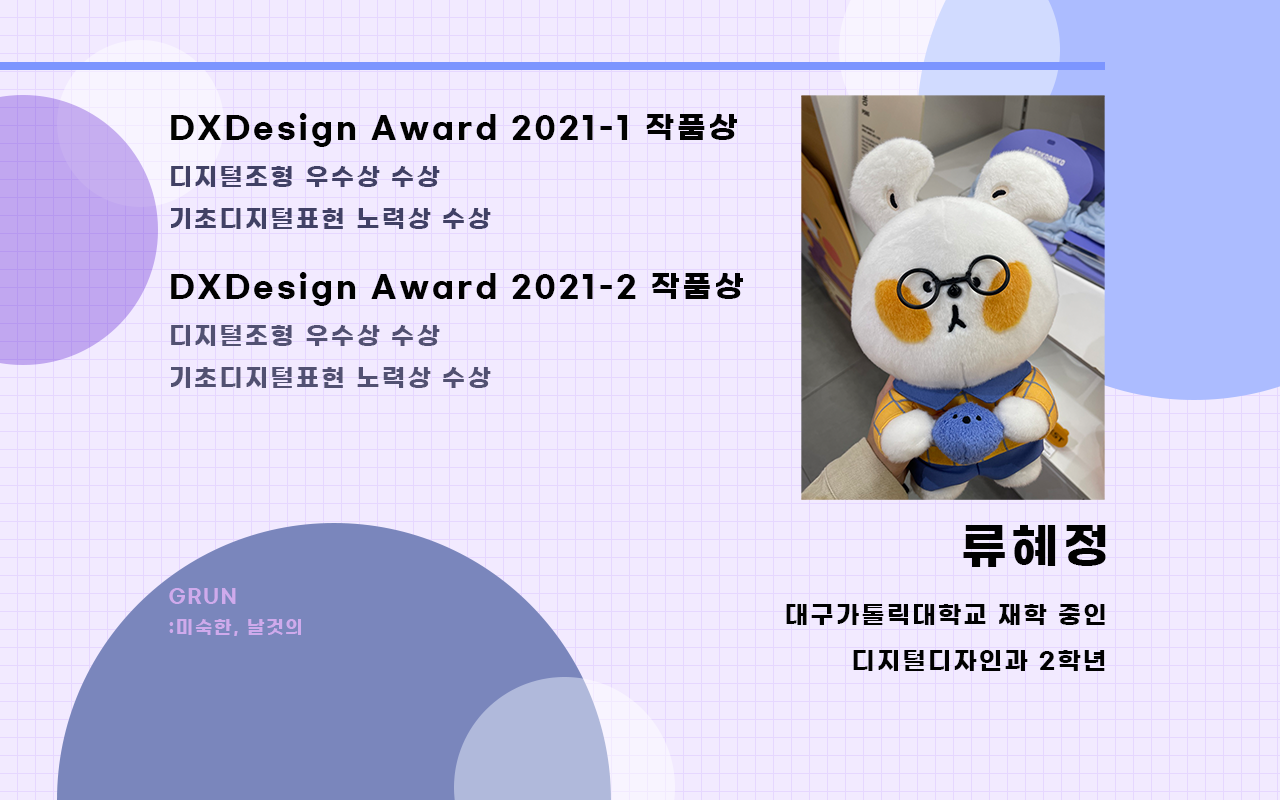
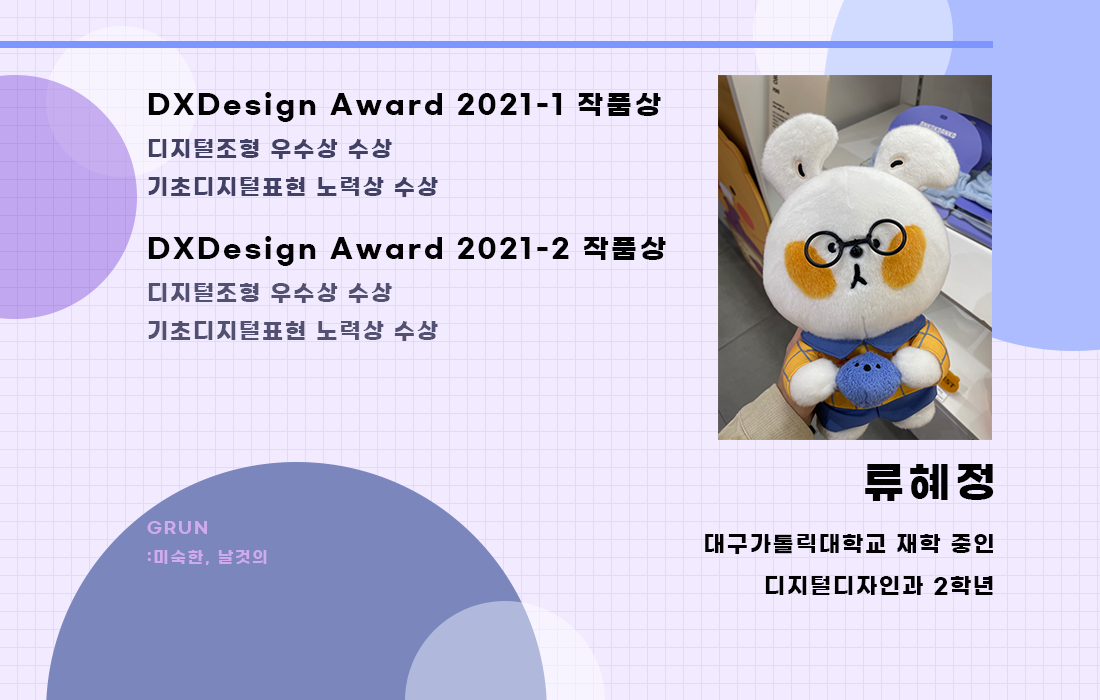
d

diff --git a/index.html b/index.html
@@ -44,7 +44,7 @@
         <p id="제목1">&nbsp;PROFILE</p>
         &nbsp;
         <div id="box7">
-            <img src="프로필2.png">
+            <img src="프로필.png">
         </div> 
     </section>  
     <section class="project">
